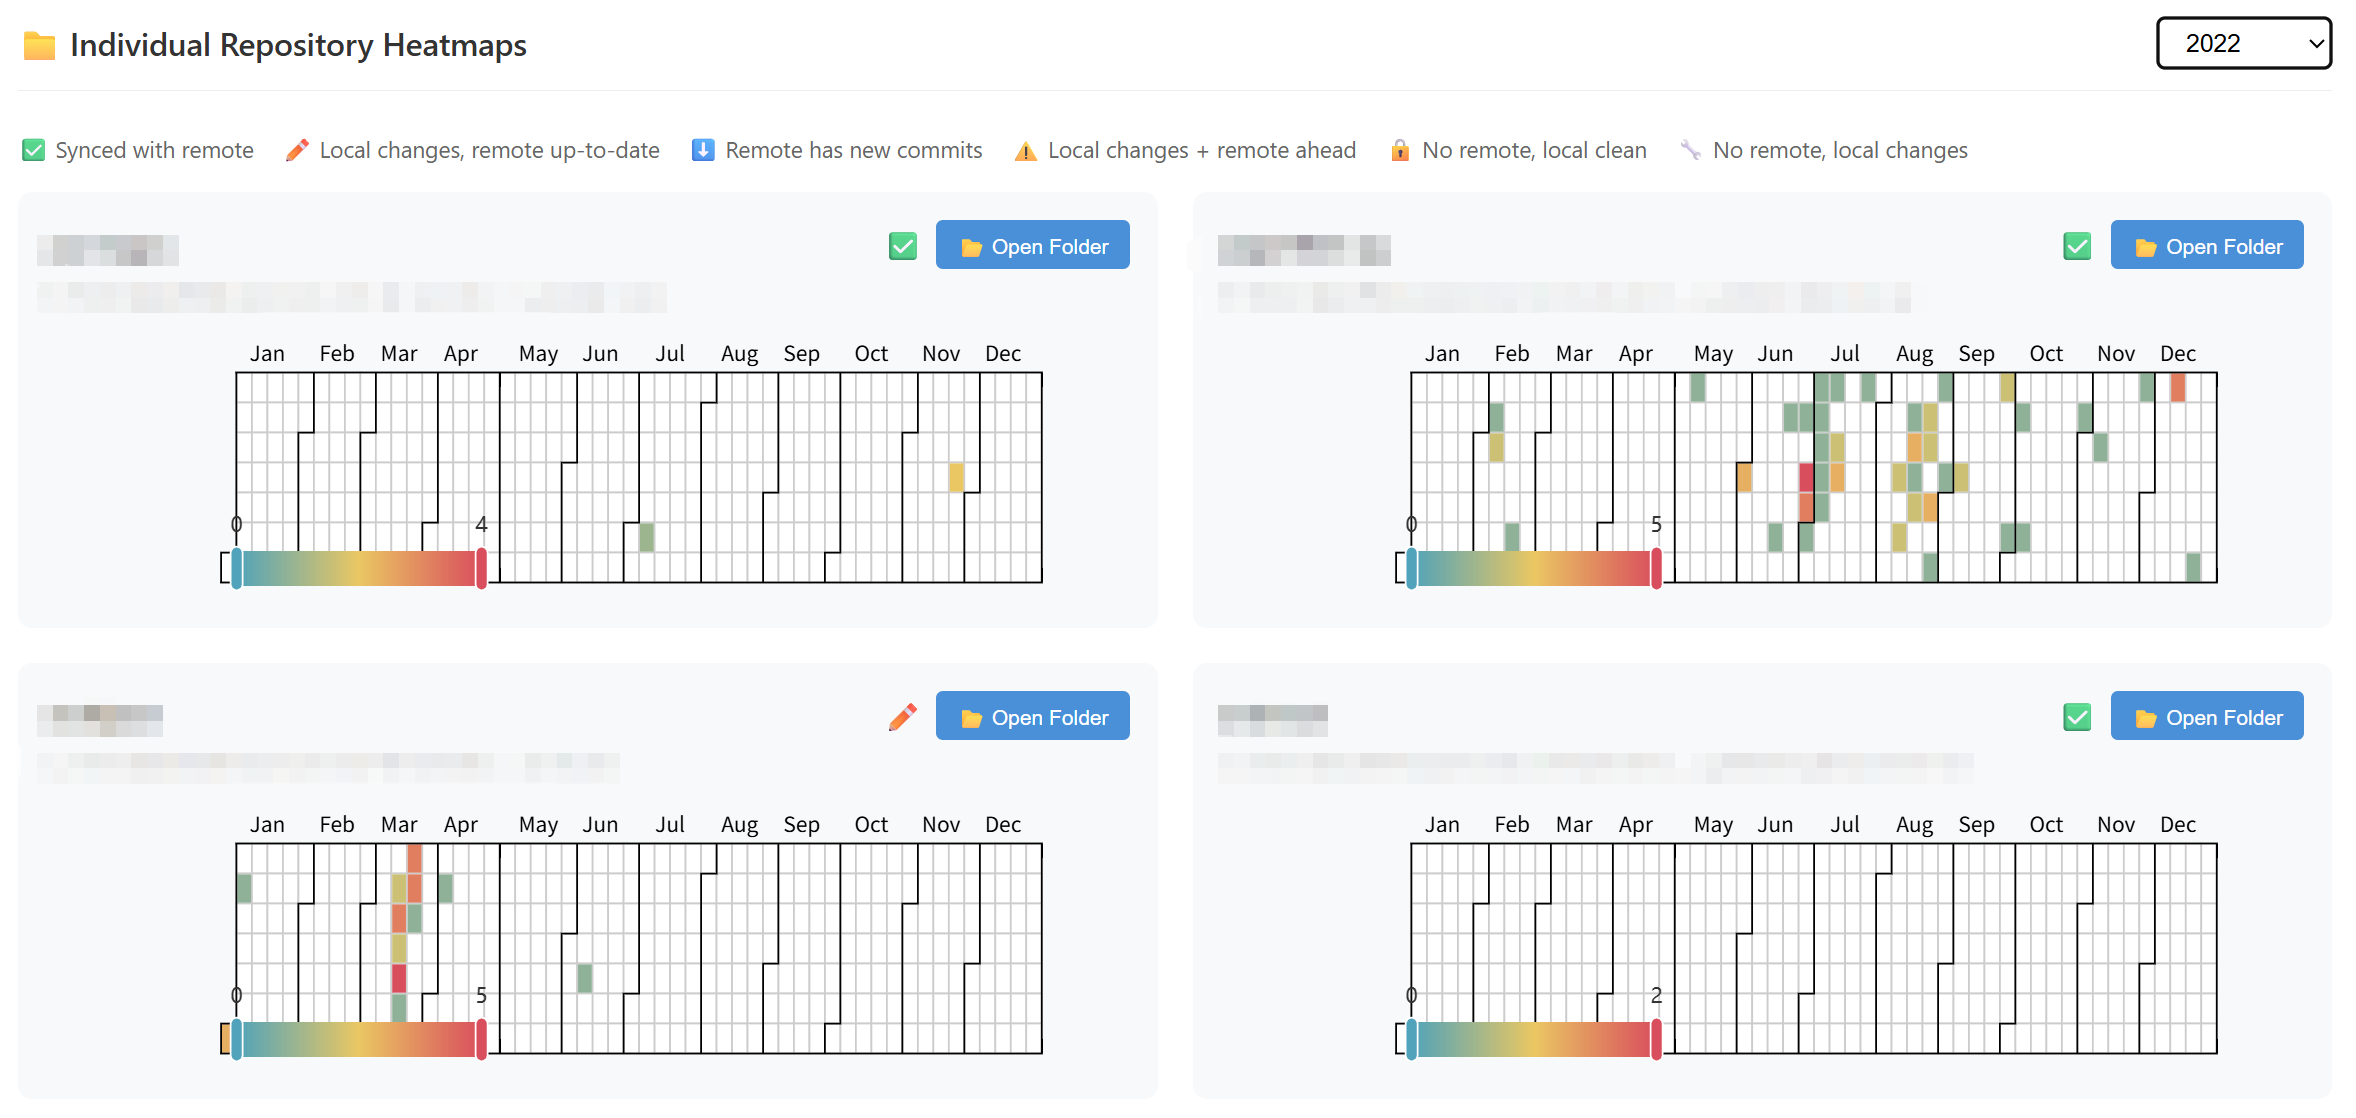
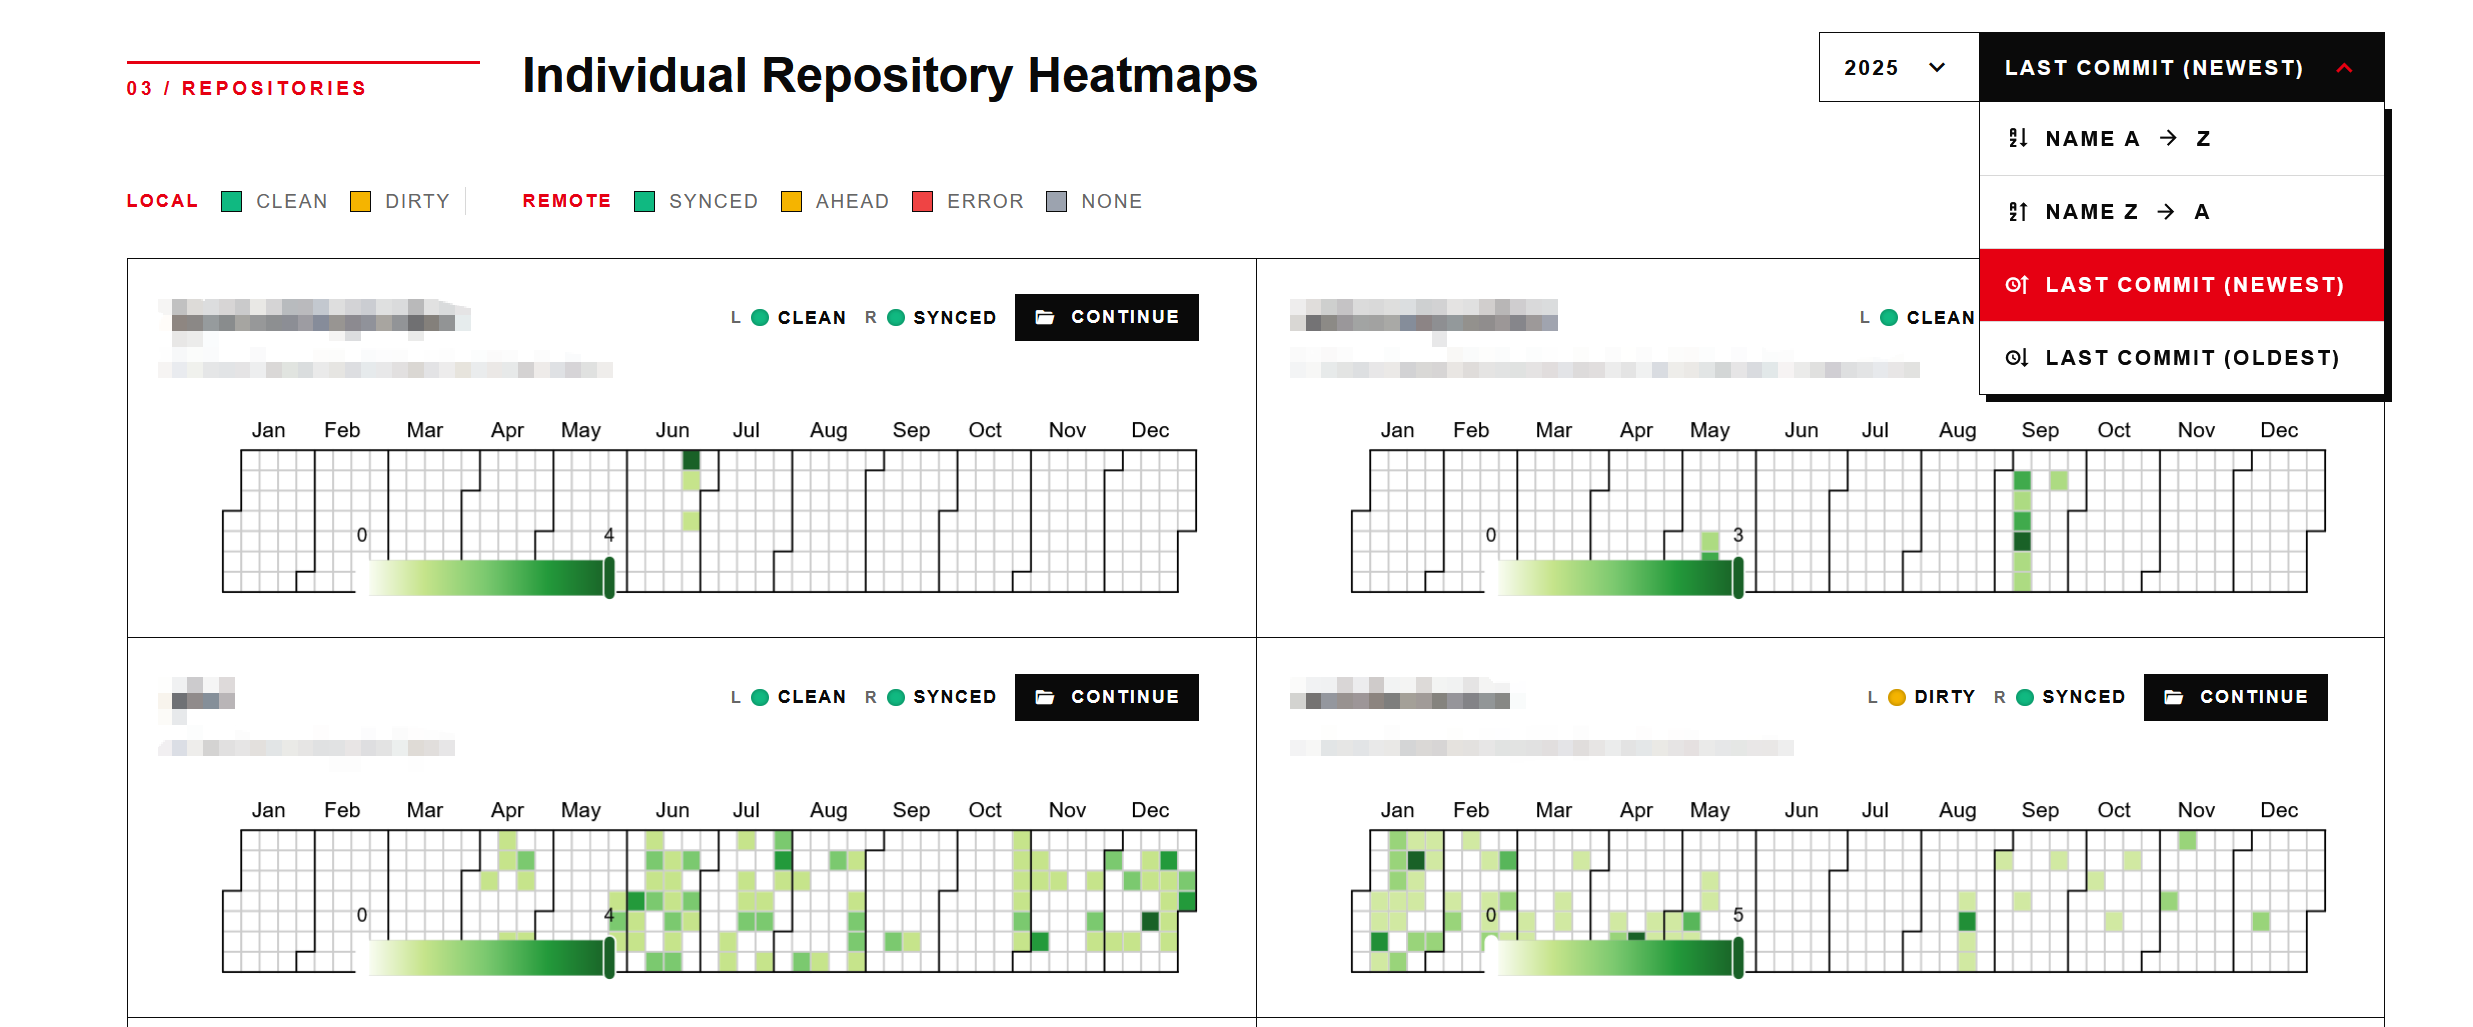
feat: add heatmap and line chart images to README, update CLI to suppress specific warnings

Changed region(s): [[0.0, 0.1246, 0.9915, 0.9659], [0.0, 0.0, 0.9915, 0.1558], [0.0, 0.0312, 0.5267, 0.0935]]

diff --git a/src/oh_my_gitstats/cli.py b/src/oh_my_gitstats/cli.py
@@ -4,8 +4,11 @@ import os
 import sys
 import threading
 import time
+import warnings
 import webbrowser
 from pathlib import Path
+
+warnings.filterwarnings("ignore", message=r".*urllib3.*or chardet.*doesn't match.*")
 
 import click
 

diff --git a/README.md b/README.md
@@ -8,8 +8,10 @@ A Python CLI tool for collecting git commit statistics and visualizing them as i
 
 </div>
 
+
 ![Line Chart](https://github.com/amomorning/oh-my-gitstats/raw/main/imgs/linechart.png)
 ![Heatmap](https://github.com/amomorning/oh-my-gitstats/raw/main/imgs/heatmap.png)
+
 
 ## ✨ Features
 
@@ -198,6 +200,7 @@ The generated HTML is built with a Swiss International Style design system (pure
 3. **📊 Individual Heatmaps (03 / Repositories)** — 2-column grid of per-repo cards. Each card shows repo name, monospace path, **Local + Remote signal lamps** (small colored circles labeled L / R, with traffic-light colors green / yellow / red / gray), and a Continue / Archived button with MDI icon (`vscode://file/` URI). Click any card to open the **Detail Modal** with a large per-repo line chart (default granularity Day), large heatmap, and a 7-cell meta grid (Commits / Lines / First / Last / Local / Remote / Action). Closeable via × button, backdrop click, or Escape key.
 
 ![Individual Heatmaps](https://github.com/amomorning/oh-my-gitstats/raw/main/imgs/repo.png)
+
 
 ## 📋 JSON Format
 